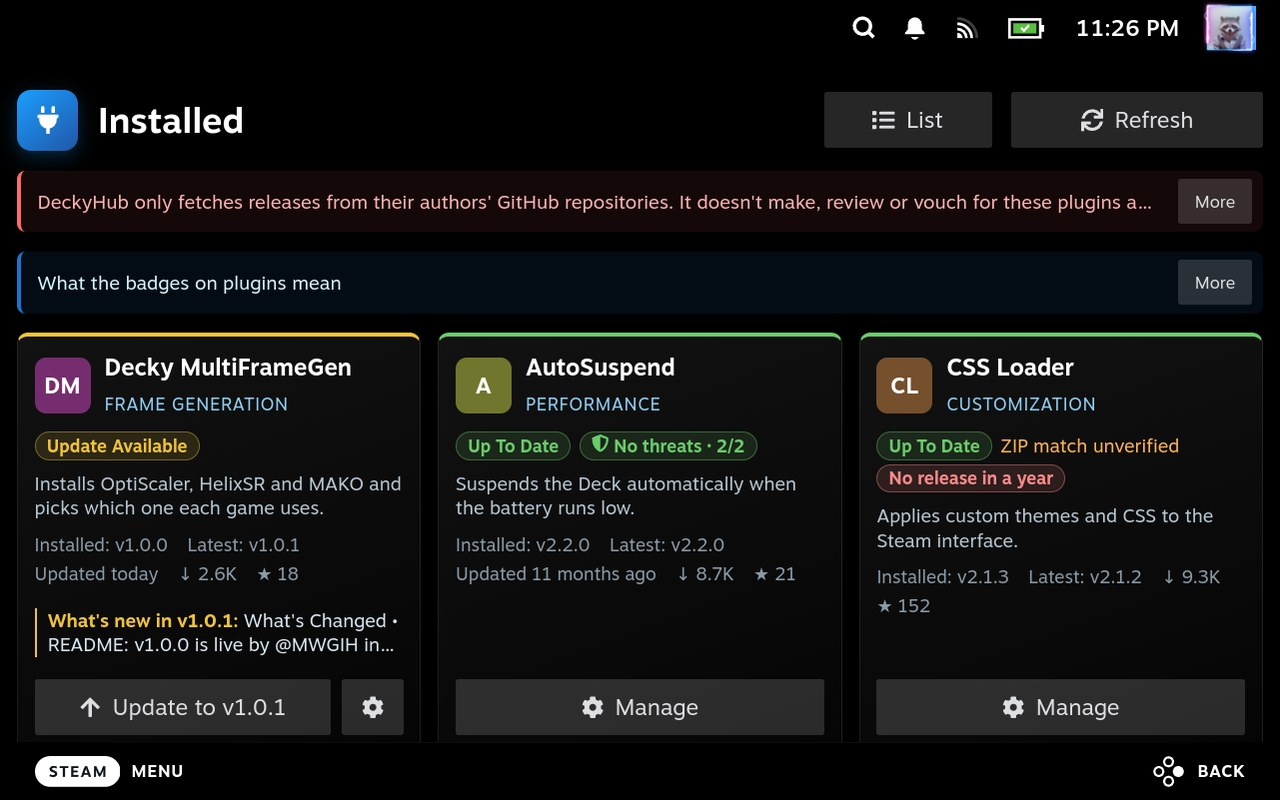
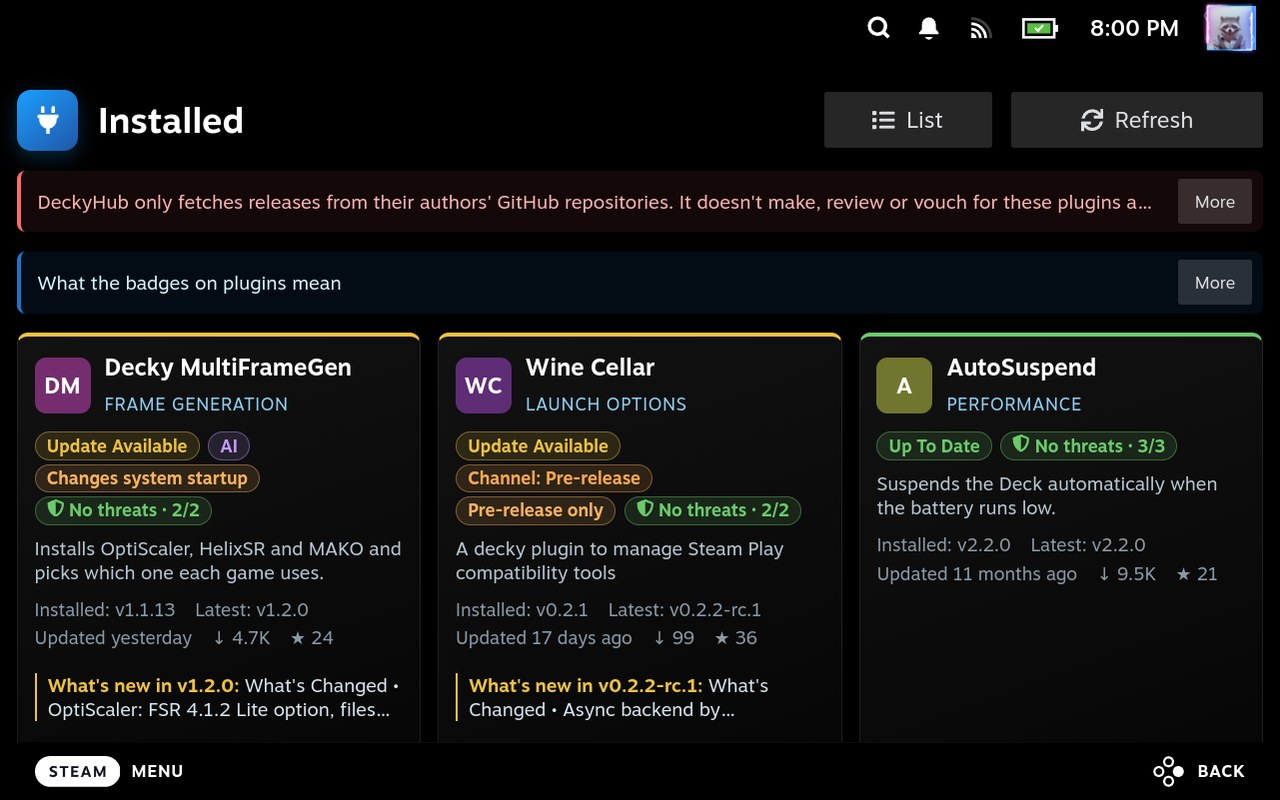
docs: Remote Install screenshots from a real device, refreshed screenshots and promo; fix the request rows
- Remote Install manual: five screenshots (Pair mode with its QR code, the pairing request,
  the plugin page's device picker, the install request, the Paired devices page), in the
  README (both languages) and on the help page. devtools/deck/remote-screenshots.mjs takes
  them: a real device and a browser go through pairing and one request, which it rejects.
- Fix: in the Quick Access panel a plugin request's Approve and Reject buttons covered the
  plugin's name, and a longer browser name was squeezed beside them. Both now put the text
  on its own line with the buttons under it.
- Screenshots that changed since 3.2.0 retaken (Discover, All plugins, Manage, Scan report,
  Updates, Installed), and the promo images and GIF rendered from them.
- The plugin count on the site and promo is 600+.

diff --git a/docs/uk/help.html b/docs/uk/help.html
@@ -75,14 +75,19 @@ footer{padding:36px 0;border-top:1px solid var(--line);color:var(--dim);font-siz
 <ol>
 <!-- steps: #### Сполучіть браузер -->
 </ol>
+<figure><img src="/img/remote-pair-mode.webp" srcset="/img/remote-pair-mode-640.webp 640w, /img/remote-pair-mode.webp 1280w" sizes="(max-width:900px) 100vw, 640px" width="1280" height="800" loading="lazy" alt="Вкладка DeckyHub у меню швидкого доступу з увімкненим режимом сполучення, шестицифровим кодом і QR-кодом" style="max-width:100%;height:auto;border-radius:8px"><figcaption>Крок 1: режим сполучення увімкнено, QR-код</figcaption></figure>
+<figure><img src="/img/remote-pairing-request.webp" srcset="/img/remote-pairing-request-640.webp 640w, /img/remote-pairing-request.webp 1280w" sizes="(max-width:900px) 100vw, 640px" width="1280" height="800" loading="lazy" alt="Запит на сполучення у вкладці DeckyHub із кнопками підтвердження й відхилення" style="max-width:100%;height:auto;border-radius:8px"><figcaption>Крок 3: підтвердьте браузер</figcaption></figure>
 <h4>2. Надішліть плагін на пристрій</h4>
 <ol>
 <!-- steps: #### Надішліть плагін на пристрій -->
 </ol>
+<figure><img src="/img/remote-send-to-device.webp" srcset="/img/remote-send-to-device-640.webp 640w, /img/remote-send-to-device.webp 1280w" sizes="(max-width:900px) 100vw, 640px" width="1280" height="800" loading="lazy" alt="Сторінка плагіна на deckyhub.com зі списком пристроїв і кнопкою Send" style="max-width:100%;height:auto;border-radius:8px"><figcaption>Крок 2: виберіть пристрій і натисніть Send</figcaption></figure>
+<figure><img src="/img/remote-request.webp" srcset="/img/remote-request-640.webp 640w, /img/remote-request.webp 1280w" sizes="(max-width:900px) 100vw, 640px" width="1280" height="800" loading="lazy" alt="Запит на встановлення у вкладці DeckyHub із кнопками підтвердження й відхилення" style="max-width:100%;height:auto;border-radius:8px"><figcaption>Крок 3: підтвердьте запит</figcaption></figure>
 <h4>3. Керуйте встановленими плагінами</h4>
 <ol>
 <!-- steps: #### Керуйте встановленими плагінами -->
 </ol>
+<figure><img src="/img/remote-paired-devices.webp" srcset="/img/remote-paired-devices-640.webp 640w, /img/remote-paired-devices.webp 1280w" sizes="(max-width:900px) 100vw, 640px" width="1280" height="800" loading="lazy" alt="Сторінка «Сполучені пристрої» зі списком встановлених плагінів пристрою" style="max-width:100%;height:auto;border-radius:8px"><figcaption>Ваш пристрій і встановлені на ньому плагіни</figcaption></figure>
 <details><summary>Що таке віддалене встановлення?</summary><p>Воно дає змогу встановлювати, оновлювати чи видаляти плагіни на пристрої з браузера в тій самій мережі. Відкрийте сторінку <a href="/paired-devices/">Сполучені пристрої</a> або сторінку будь-якого плагіна в Chrome, Edge чи іншому браузері на Chromium. Жоден сервер не бере участі. Це експериментальна функція, і вона повністю локальна: браузер звертається безпосередньо до пристрою у вашій мережі, нічого не збирається й нікуди не надсилається.</p></details>
 <details><summary>Як сполучити браузер?</summary><p>На вкладці DeckyHub у меню швидкого доступу увімкніть режим сполучення в розділі «Віддалене встановлення», відскануйте QR-код (або відкрийте посилання), дозвольте доступ до локальної мережі, якщо браузер запитає, і підтвердьте браузер на пристрої. Сполучати потрібно один раз: сполучення зберігаються, доки ви їх не видалите.</p></details>
 <details><summary>Чи треба підтверджувати кожен запит?</summary><p>Так, за замовчуванням. Кожен запит з’являється в меню швидкого доступу, де його можна підтвердити чи відхилити, а Decky Loader усе одно просить підтвердити встановлення й оновлення. Якщо ви повністю довіряєте браузеру, увімкніть біля нього «Довірений»: його запити виконуватимуться без питань. Вмикайте це лише для браузера, який контролюєте, бо плагіни можуть мати повний доступ до пристрою. Вимкнути чи видалити браузер можна будь-коли.</p></details>

diff --git a/src/components/RemoteInstallSection.tsx b/src/components/RemoteInstallSection.tsx
@@ -216,21 +216,24 @@ export function RemoteInstallSection() {
                     </PanelSectionRow>
                     {status.pairings.map((p) => (
                       <PanelSectionRow key={p.id}>
-                        <Focusable flow-children="right" style={{ display: "flex", alignItems: "center", gap: 8 }}>
-                          <span style={{ flex: 1 }}>{p.name}</span>
-                          <Button
-                            style={{ ...compactButtonStyle, background: colors.success, marginBottom: 0 }}
-                            onClick={() => void onDecidePairing(p.id, true)}
-                          >
-                            <FaCheck /> {t("remote.approve")}
-                          </Button>
-                          <Button
-                            style={{ ...compactButtonStyle, background: colors.danger, marginBottom: 0 }}
-                            onClick={() => void onDecidePairing(p.id, false)}
-                          >
-                            <FaTimes /> {t("remote.reject")}
-                          </Button>
-                        </Focusable>
+                        {/* The browser's name on its own line, like a plugin request below. */}
+                        <div style={{ display: "grid", gap: 6 }}>
+                          <span style={{ minWidth: 0, overflowWrap: "anywhere" }}>{p.name}</span>
+                          <Focusable flow-children="right" style={{ display: "flex", alignItems: "center", gap: 8 }}>
+                            <Button
+                              style={{ ...compactButtonStyle, background: colors.success, marginBottom: 0 }}
+                              onClick={() => void onDecidePairing(p.id, true)}
+                            >
+                              <FaCheck /> {t("remote.approve")}
+                            </Button>
+                            <Button
+                              style={{ ...compactButtonStyle, background: colors.danger, marginBottom: 0 }}
+                              onClick={() => void onDecidePairing(p.id, false)}
+                            >
+                              <FaTimes /> {t("remote.reject")}
+                            </Button>
+                          </Focusable>
+                        </div>
                       </PanelSectionRow>
                     ))}
                   </>
@@ -245,8 +248,10 @@ export function RemoteInstallSection() {
                     </PanelSectionRow>
                     {status.requests.map((r) => (
                       <PanelSectionRow key={r.id}>
-                        <Focusable flow-children="right" style={{ display: "flex", alignItems: "center", gap: 8 }}>
-                          <div style={{ flex: 1, minWidth: 0 }}>
+                        {/* What is asked on its own line, the buttons under it: beside them, in the narrow
+                            Quick Access panel, the plugin's name had no room and the buttons covered it. */}
+                        <div style={{ display: "grid", gap: 6 }}>
+                          <div style={{ minWidth: 0, overflowWrap: "anywhere" }}>
                             <div style={{ fontWeight: "bold" }}>
                               {t(
                                 r.action === "uninstall"
@@ -262,21 +267,23 @@ export function RemoteInstallSection() {
                               {r.releaseTag ? ` (${r.releaseTag})` : ""}
                             </div>
                           </div>
-                          <Button
-                            style={{ ...compactButtonStyle, background: colors.success, marginBottom: 0 }}
-                            disabled={loading}
-                            onClick={() => void onDecideRequest(r, true)}
-                          >
-                            <FaCheck /> {t("remote.approve")}
-                          </Button>
-                          <Button
-                            style={{ ...compactButtonStyle, background: colors.danger, marginBottom: 0 }}
-                            disabled={loading}
-                            onClick={() => void onDecideRequest(r, false)}
-                          >
-                            <FaTimes /> {t("remote.reject")}
-                          </Button>
-                        </Focusable>
+                          <Focusable flow-children="right" style={{ display: "flex", alignItems: "center", gap: 8 }}>
+                            <Button
+                              style={{ ...compactButtonStyle, background: colors.success, marginBottom: 0 }}
+                              disabled={loading}
+                              onClick={() => void onDecideRequest(r, true)}
+                            >
+                              <FaCheck /> {t("remote.approve")}
+                            </Button>
+                            <Button
+                              style={{ ...compactButtonStyle, background: colors.danger, marginBottom: 0 }}
+                              disabled={loading}
+                              onClick={() => void onDecideRequest(r, false)}
+                            >
+                              <FaTimes /> {t("remote.reject")}
+                            </Button>
+                          </Focusable>
+                        </div>
                       </PanelSectionRow>
                     ))}
                   </>

diff --git a/docs/help.html b/docs/help.html
@@ -74,14 +74,19 @@ footer{padding:36px 0;border-top:1px solid var(--line);color:var(--dim);font-siz
 <ol>
 <!-- steps: #### Pair a browser -->
 </ol>
+<figure><img src="/img/remote-pair-mode.webp" srcset="/img/remote-pair-mode-640.webp 640w, /img/remote-pair-mode.webp 1280w" sizes="(max-width:900px) 100vw, 640px" width="1280" height="800" loading="lazy" alt="DeckyHub's Quick Access tab with Pair mode on, a six-digit code and a QR code" style="max-width:100%;height:auto;border-radius:8px"><figcaption>Step 1: Pair mode on, with the QR code</figcaption></figure>
+<figure><img src="/img/remote-pairing-request.webp" srcset="/img/remote-pairing-request-640.webp 640w, /img/remote-pairing-request.webp 1280w" sizes="(max-width:900px) 100vw, 640px" width="1280" height="800" loading="lazy" alt="A pairing request in DeckyHub's Quick Access tab with Approve and Reject buttons" style="max-width:100%;height:auto;border-radius:8px"><figcaption>Step 3: approve the browser</figcaption></figure>
 <h4>2. Send a plugin to your device</h4>
 <ol>
 <!-- steps: #### Send a plugin to your device -->
 </ol>
+<figure><img src="/img/remote-send-to-device.webp" srcset="/img/remote-send-to-device-640.webp 640w, /img/remote-send-to-device.webp 1280w" sizes="(max-width:900px) 100vw, 640px" width="1280" height="800" loading="lazy" alt="A plugin's page on deckyhub.com with a device picker and a Send button" style="max-width:100%;height:auto;border-radius:8px"><figcaption>Step 2: pick your device and press Send</figcaption></figure>
+<figure><img src="/img/remote-request.webp" srcset="/img/remote-request-640.webp 640w, /img/remote-request.webp 1280w" sizes="(max-width:900px) 100vw, 640px" width="1280" height="800" loading="lazy" alt="An install request in DeckyHub's Quick Access tab with Approve and Reject buttons" style="max-width:100%;height:auto;border-radius:8px"><figcaption>Step 3: approve the request</figcaption></figure>
 <h4>3. Manage installed plugins</h4>
 <ol>
 <!-- steps: #### Manage installed plugins -->
 </ol>
+<figure><img src="/img/remote-paired-devices.webp" srcset="/img/remote-paired-devices-640.webp 640w, /img/remote-paired-devices.webp 1280w" sizes="(max-width:900px) 100vw, 640px" width="1280" height="800" loading="lazy" alt="The Paired devices page listing a device's installed plugins" style="max-width:100%;height:auto;border-radius:8px"><figcaption>Your device and its installed plugins</figcaption></figure>
 <details><summary>What is Remote Install?</summary><p>It lets you install, update or uninstall plugins on your device from a browser on the same network. Open the <a href="/paired-devices/">Paired devices</a> page or any plugin's page in Chrome, Edge or another Chromium browser. It is experimental, so expect rough edges. It is also fully local: your browser talks straight to your device on your network, nothing goes through a server, and nothing is collected or sent anywhere.</p></details>
 <details><summary>How do I pair a browser?</summary><p>In DeckyHub's Quick Access tab, turn on Pair mode under Remote Install, scan the QR code (or open the pairing link), allow local network access if the browser asks, then approve the browser on your device. You only pair once: pairings are kept until you remove them or haven't used a browser for 30 days.</p></details>
 <details><summary>Do I have to approve every request?</summary><p>Yes, by default. Each request shows in the Quick Access tab for you to Approve or Reject, and Decky Loader still asks to confirm installs and updates. If you fully trust a browser, turn on Trusted next to it: its requests then run without asking. Only switch it on for a browser you control, because plugins can run with full access to your device. You can turn it off or remove the browser at any time.</p></details>

diff --git a/docs/uk/index.html b/docs/uk/index.html
@@ -3,7 +3,7 @@
 <head>
 <meta charset="utf-8"><meta name="viewport" content="width=device-width,initial-scale=1">
 <title>DeckyHub: магазин плагінів Decky Loader</title>
-<meta name="description" content="DeckyHub — безкоштовний магазин плагінів Decky Loader з відкритим кодом: знаходьте, встановлюйте й оновлюйте 500+ плагінів Decky Loader в ігровому режимі.">
+<meta name="description" content="DeckyHub — безкоштовний магазин плагінів Decky Loader з відкритим кодом: знаходьте, встановлюйте й оновлюйте 600+ плагінів Decky Loader в ігровому режимі.">
 <link rel="icon" href="../favicon.svg" type="image/svg+xml">
 <link rel="canonical" href="https://deckyhub.com/uk/">
 <link rel="alternate" hreflang="en" href="https://deckyhub.com/">
@@ -15,7 +15,7 @@
 <meta property="og:locale" content="uk_UA">
 <meta property="og:url" content="https://deckyhub.com/uk/">
 <meta property="og:title" content="DeckyHub: магазин плагінів Decky Loader">
-<meta property="og:description" content="Знаходьте, встановлюйте й оновлюйте 500+ плагінів Decky Loader в ігровому режимі, зокрема тих, яких немає в офіційному магазині Decky.">
+<meta property="og:description" content="Знаходьте, встановлюйте й оновлюйте 600+ плагінів Decky Loader в ігровому режимі, зокрема тих, яких немає в офіційному магазині Decky.">
 <meta property="og:image" content="https://deckyhub.com/img/og.jpg">
 <meta property="og:image:alt" content="Екран «Огляд» DeckyHub із категоріями плагінів і популярними плагінами">
 <meta name="twitter:card" content="summary_large_image">

diff --git a/docs/index.html b/docs/index.html
@@ -3,7 +3,7 @@
 <head>
 <meta charset="utf-8"><meta name="viewport" content="width=device-width,initial-scale=1">
 <title>DeckyHub: Decky Loader plugin store</title>
-<meta name="description" content="DeckyHub is a free, open-source plugin store for Decky Loader: find, install and update 500+ Decky Loader plugins from Gaming Mode.">
+<meta name="description" content="DeckyHub is a free, open-source plugin store for Decky Loader: find, install and update 600+ Decky Loader plugins from Gaming Mode.">
 <link rel="icon" href="favicon.svg" type="image/svg+xml">
 <link rel="canonical" href="https://deckyhub.com/">
 <link rel="alternate" hreflang="en" href="https://deckyhub.com/">
@@ -15,7 +15,7 @@
 <meta property="og:locale" content="en_US">
 <meta property="og:url" content="https://deckyhub.com/">
 <meta property="og:title" content="DeckyHub: Decky Loader plugin store">
-<meta property="og:description" content="Find, install and update 500+ Decky Loader plugins from Gaming Mode, including plugins not on the official Decky store.">
+<meta property="og:description" content="Find, install and update 600+ Decky Loader plugins from Gaming Mode, including plugins not on the official Decky store.">
 <meta property="og:image" content="https://deckyhub.com/img/og.jpg">
 <meta property="og:image:alt" content="DeckyHub's Discover screen, with plugin categories and popular plugins">
 <meta name="twitter:card" content="summary_large_image">

diff --git a/devtools/deck/screenshots_to_jpg.py b/devtools/deck/screenshots_to_jpg.py
@@ -1,5 +1,6 @@
 """Turns screenshots.mjs's PNGs into the JPGs of screenshots/ (1280x800):
   python devtools/deck/screenshots_to_jpg.py <png-dir>
+  python devtools/deck/screenshots_to_jpg.py <png-dir> remote    (remote-screenshots.mjs's, for the Remote Install manual)
 The menu is the main screen behind it with the Quick Access panel (its own window) put on the right."""
 
 import sys
@@ -10,14 +11,28 @@ from PIL import Image
 src = Path(sys.argv[1])
 out = Path(__file__).resolve().parent.parent.parent / "screenshots"
 SIZE = (1280, 800)
+
+
+def with_panel(background: Path, panel_file: Path) -> Image.Image:
+    """The main screen with the Quick Access panel (its own window) on the right."""
+    screen = Image.open(background).convert("RGB").resize(SIZE, Image.LANCZOS)
+    panel = Image.open(panel_file).convert("RGB")
+    scale = SIZE[0] / panel.width
+    panel = panel.resize((SIZE[0], round(panel.height * scale)), Image.LANCZOS)
+    # The rail and cards fill the panel's left 487 of 1197 px; below the status bar, above the footer.
+    width = round(487 * scale)
+    screen.paste(panel.crop((0, 0, width, 680)), (SIZE[0] - width, 60))
+    return screen
+
+
+if sys.argv[2:] == ["remote"]:
+    for name in ("remote-pair-mode", "remote-pairing-request", "remote-request"):
+        with_panel(src / f"{name}-background.png", src / f"{name}-panel.png").save(out / f"{name}.jpg", quality=88)
+    for name in ("remote-paired-devices", "remote-send-to-device"):
+        Image.open(src / f"{name}.png").convert("RGB").resize(SIZE, Image.LANCZOS).save(out / f"{name}.jpg", quality=88)
+    sys.exit()
+
 for name in ("discover", "all-plugins", "manage", "updates", "installed", "search", "settings", "scan-report"):
     Image.open(src / f"{name}.png").convert("RGB").resize(SIZE, Image.LANCZOS).save(out / f"{name}.jpg", quality=88)
 
-menu = Image.open(src / "menu-background.png").convert("RGB").resize(SIZE, Image.LANCZOS)
-panel = Image.open(src / "menu-panel.png").convert("RGB")
-scale = SIZE[0] / panel.width
-panel = panel.resize((SIZE[0], round(panel.height * scale)), Image.LANCZOS)
-# The rail and cards fill the panel's left 487 of 1197 px; below the status bar, above the footer.
-width = round(487 * scale)
-menu.paste(panel.crop((0, 0, width, 680)), (SIZE[0] - width, 60))
-menu.save(out / "menu.jpg", quality=88)
+with_panel(src / "menu-background.png", src / "menu-panel.png").save(out / "menu.jpg", quality=88)

diff --git a/devtools/build-site.py b/devtools/build-site.py
@@ -174,9 +174,9 @@ def structured_data(page: str, latest: dict | None, uk: bool = False) -> str:
         "applicationSubCategory": "Decky Loader plugin",
         "operatingSystem": "SteamOS",
         "description": (
-            "Магазин плагінів Decky Loader: знаходьте, встановлюйте й оновлюйте 500+ плагінів Decky Loader в ігровому режимі, зокрема тих, яких немає в офіційному магазині Decky."
+            "Магазин плагінів Decky Loader: знаходьте, встановлюйте й оновлюйте 600+ плагінів Decky Loader в ігровому режимі, зокрема тих, яких немає в офіційному магазині Decky."
             if uk
-            else "A Decky Loader plugin store: find, install and update 500+ Decky Loader plugins from Gaming Mode, including plugins not on the official Decky store."
+            else "A Decky Loader plugin store: find, install and update 600+ Decky Loader plugins from Gaming Mode, including plugins not on the official Decky store."
         ),
         "downloadUrl": f"{REPO_URL}/releases/latest",
         "installUrl": f"{SITE}uk/#install" if uk else f"{SITE}#install",

diff --git a/README.uk.md b/README.uk.md
@@ -296,6 +296,10 @@ DeckyHub доступний англійською, українською, ро
 2. Відскануйте QR-код телефоном або виберіть **Копіювати посилання для сполучення** й відкрийте посилання на комп’ютері. Відкриється сторінка [Сполучені пристрої](https://deckyhub.com/develop/paired-devices/). Дозвольте доступ до локальної мережі, якщо браузер запитає.
 3. На пристрої **підтвердьте** браузер у списку запитів на сполучення.
 
+<table><tr>
+<td align="center"><img src="screenshots/remote-pair-mode.jpg" width="400" alt="Вкладка DeckyHub у меню швидкого доступу з увімкненим режимом сполучення, шестицифровим кодом і QR-кодом"><br><sub>Крок 1: режим сполучення увімкнено, QR-код</sub></td><td align="center"><img src="screenshots/remote-pairing-request.jpg" width="400" alt="Запит на сполучення у вкладці DeckyHub із кнопками підтвердження й відхилення"><br><sub>Крок 3: підтвердьте браузер</sub></td>
+</tr></table>
+
 Сполучення зберігається після перезапуску, перезавантаження чи вимкнення режиму сполучення. Браузер, яким не користувалися 30 днів, забувається.
 
 #### Надішліть плагін на пристрій
@@ -304,6 +308,10 @@ DeckyHub доступний англійською, українською, ро
 2. У блоці **Send to device** виберіть пристрій і натисніть **Send**. У списку лише пристрої, до яких браузер зараз може дістатися, тож тримайте **Режим сполучення** увімкненим.
 3. На пристрої запит з’явиться вгорі розділу «Віддалене встановлення». Натисніть **Підтвердити**, а тоді підтвердьте встановлення у вікні Decky Loader.
 
+<table><tr>
+<td align="center"><img src="screenshots/remote-send-to-device.jpg" width="400" alt="Сторінка плагіна на deckyhub.com зі списком пристроїв і кнопкою Send"><br><sub>Крок 2: виберіть пристрій і натисніть Send</sub></td><td align="center"><img src="screenshots/remote-request.jpg" width="400" alt="Запит на встановлення у вкладці DeckyHub із кнопками підтвердження й відхилення"><br><sub>Крок 3: підтвердьте запит</sub></td>
+</tr></table>
+
 Запит, не підтверджений протягом двох хвилин, втрачає чинність. Якщо так сталося, надішліть його ще раз.
 
 #### Керуйте встановленими плагінами
@@ -311,6 +319,10 @@ DeckyHub доступний англійською, українською, ро
 1. Відкрийте [Сполучені пристрої](https://deckyhub.com/develop/paired-devices/) у сполученому браузері й виберіть пристрій. З’явиться список встановлених плагінів.
 2. Натисніть **Update** чи **Uninstall** біля плагіна або **Browse plugins to install**, щоб додати новий.
 3. Підтвердьте запит на пристрої, як описано вище.
+
+<table><tr>
+<td align="center"><img src="screenshots/remote-paired-devices.jpg" width="400" alt="Сторінка «Сполучені пристрої» зі списком встановлених плагінів пристрою"><br><sub>Ваш пристрій і встановлені на ньому плагіни</sub></td>
+</tr></table>
 
 Встановлення й оновлення працюють для плагінів, які DeckyHub може зіставити зі своїм списком. Видалення працює для будь-якого встановленого плагіна з унікальною назвою. Сам DeckyHub можна змінювати лише на пристрої.
 

diff --git a/README.md b/README.md
@@ -302,6 +302,10 @@ You do this once per browser.
 2. Scan the QR code with your phone, or choose **Copy pairing link** and open the link on your computer. It opens the [Paired devices](https://deckyhub.com/develop/paired-devices/) page. Allow local network access if the browser asks.
 3. Back on your device, **Approve** the browser under **Pairing requests**.
 
+<table><tr>
+<td align="center"><img src="screenshots/remote-pair-mode.jpg" width="400" alt="DeckyHub's Quick Access tab with Pair mode on, a six-digit code and a QR code"><br><sub>Step 1: Pair mode on, with the QR code</sub></td><td align="center"><img src="screenshots/remote-pairing-request.jpg" width="400" alt="A pairing request in DeckyHub's Quick Access tab with Approve and Reject buttons"><br><sub>Step 3: approve the browser</sub></td>
+</tr></table>
+
 The pairing is kept after a restart, a reload or turning Pair mode off. A browser you haven't used for 30 days is forgotten.
 
 #### Send a plugin to your device
@@ -310,6 +314,10 @@ The pairing is kept after a restart, a reload or turning Pair mode off. A browse
 2. Under **Send to device**, pick your device and press **Send**. Only devices the browser can reach right now are listed, so keep **Pair mode** on.
 3. On your device, the request appears at the top of the Remote Install section. Press **Approve**, then confirm Decky Loader's own install prompt.
 
+<table><tr>
+<td align="center"><img src="screenshots/remote-send-to-device.jpg" width="400" alt="A plugin's page on deckyhub.com with a device picker and a Send button"><br><sub>Step 2: pick your device and press Send</sub></td><td align="center"><img src="screenshots/remote-request.jpg" width="400" alt="An install request in DeckyHub's Quick Access tab with Approve and Reject buttons"><br><sub>Step 3: approve the request</sub></td>
+</tr></table>
+
 A request that isn't approved within two minutes expires. Send it again if that happens.
 
 #### Manage installed plugins
@@ -317,6 +325,10 @@ A request that isn't approved within two minutes expires. Send it again if that 
 1. Open [Paired devices](https://deckyhub.com/develop/paired-devices/) in the paired browser and pick your device. Its installed plugins are listed.
 2. Press **Update** or **Uninstall** next to a plugin, or **Browse plugins to install** to add one.
 3. Approve the request on your device, as above.
+
+<table><tr>
+<td align="center"><img src="screenshots/remote-paired-devices.jpg" width="400" alt="The Paired devices page listing a device's installed plugins"><br><sub>Your device and its installed plugins</sub></td>
+</tr></table>
 
 Install and update work for plugins DeckyHub can match to its list. Uninstall works for any installed plugin whose name is unique. DeckyHub itself can only be managed on the device.
 
